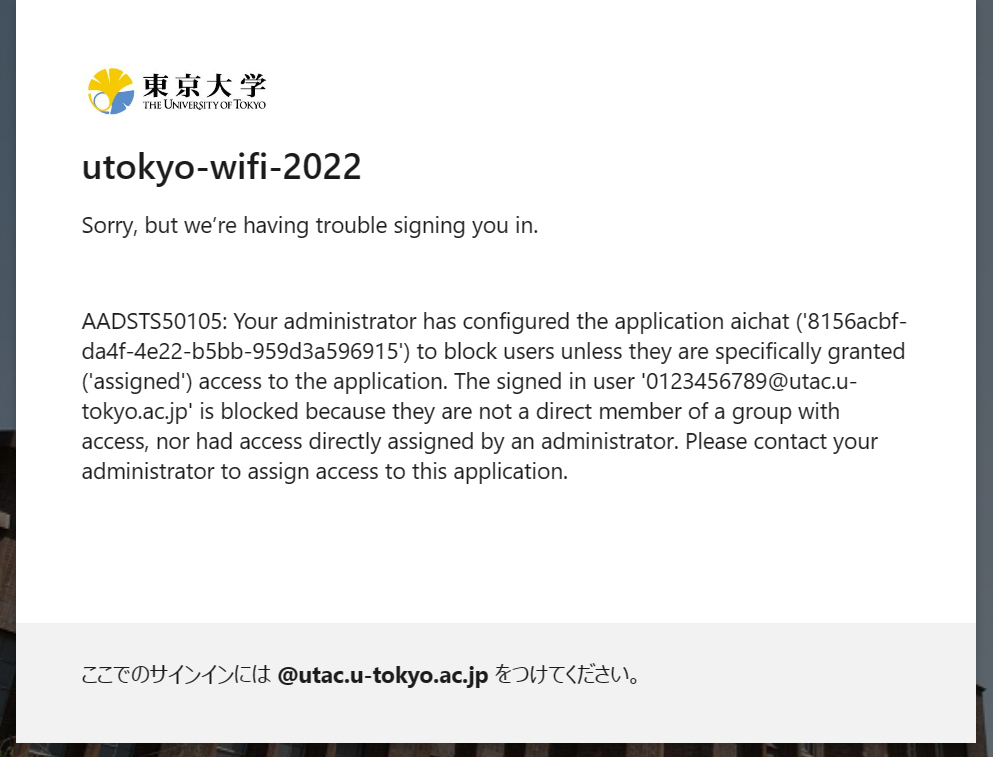
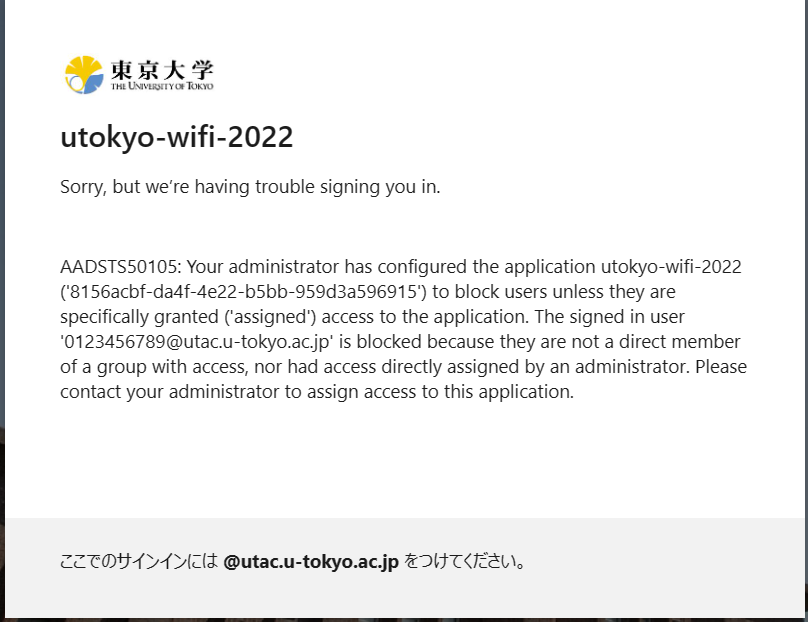
change access denied img to eng ver

diff --git a/_includes/en/systems/utokyo_wifi/apply.html b/_includes/en/systems/utokyo_wifi/apply.html
@@ -50,7 +50,7 @@
       <ul>
         <li>
           <strong>If the following screen appears and you cannot access your account menu:</strong>
-          <img src="/utokyo_wifi/img/account_menu_access_denied.png" class="small">
+          <img src="en/utokyo_wifi/account_menu_access_denied.png" class="small">
           Your account has been suspended because you have not completed information security education. Please refer to {%
             if page.slug == "oc"
           %}<a href="/en/utokyo_wifi/#jouhou-security">"Information Security Education" section on UTokyo Wi-Fi page</a>{%
